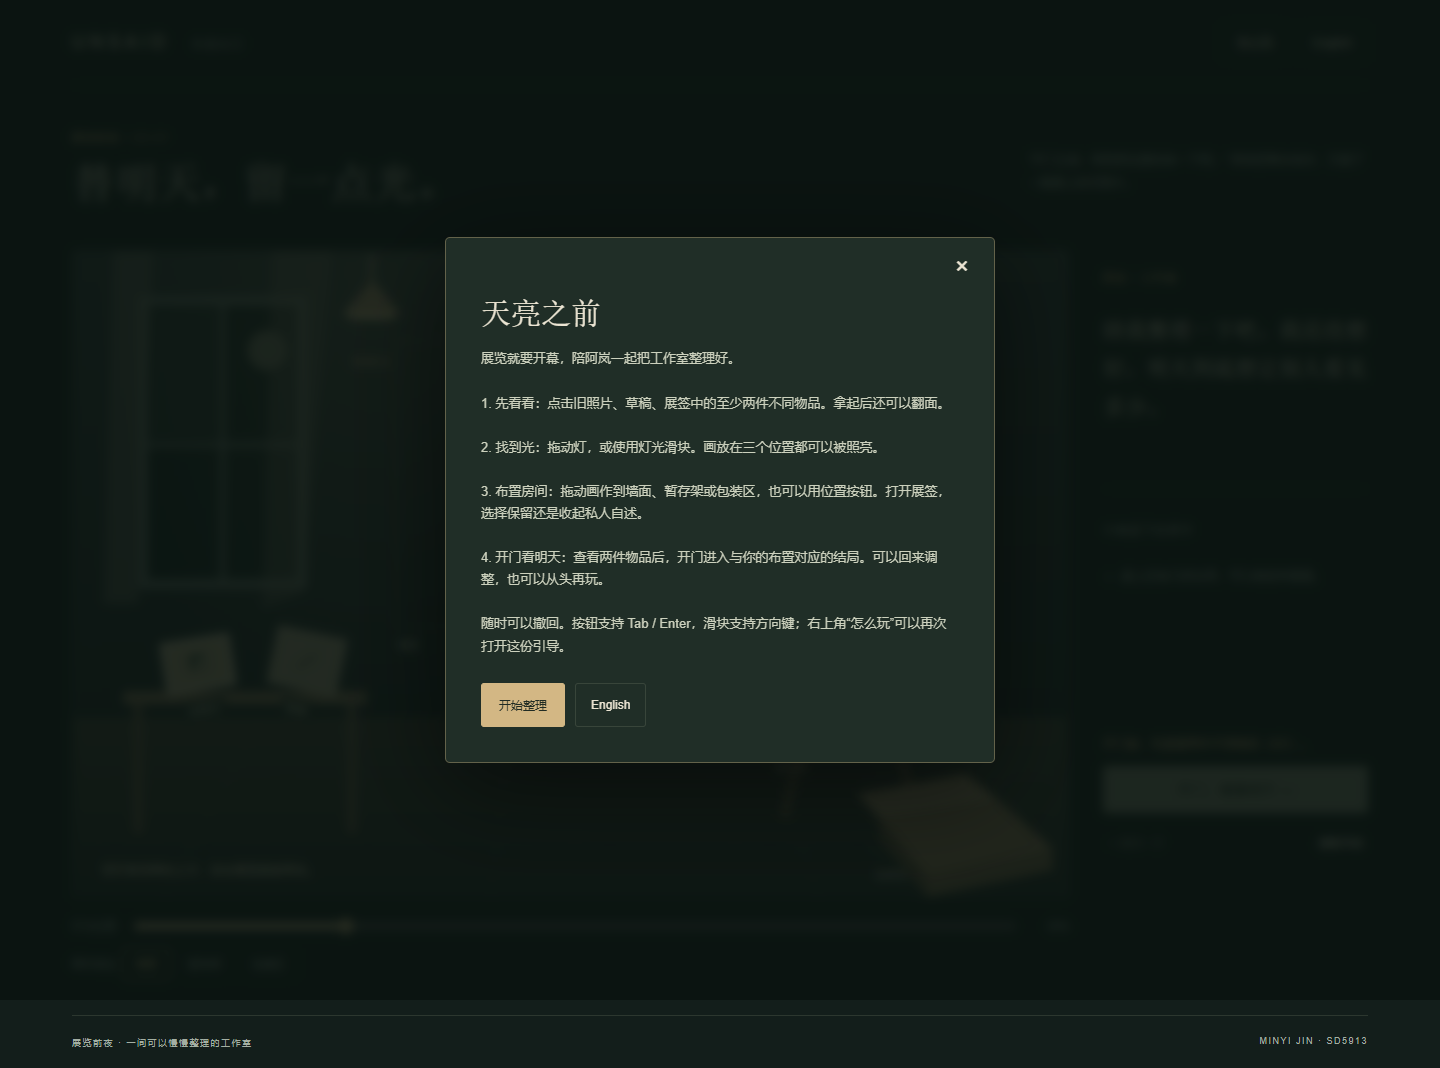
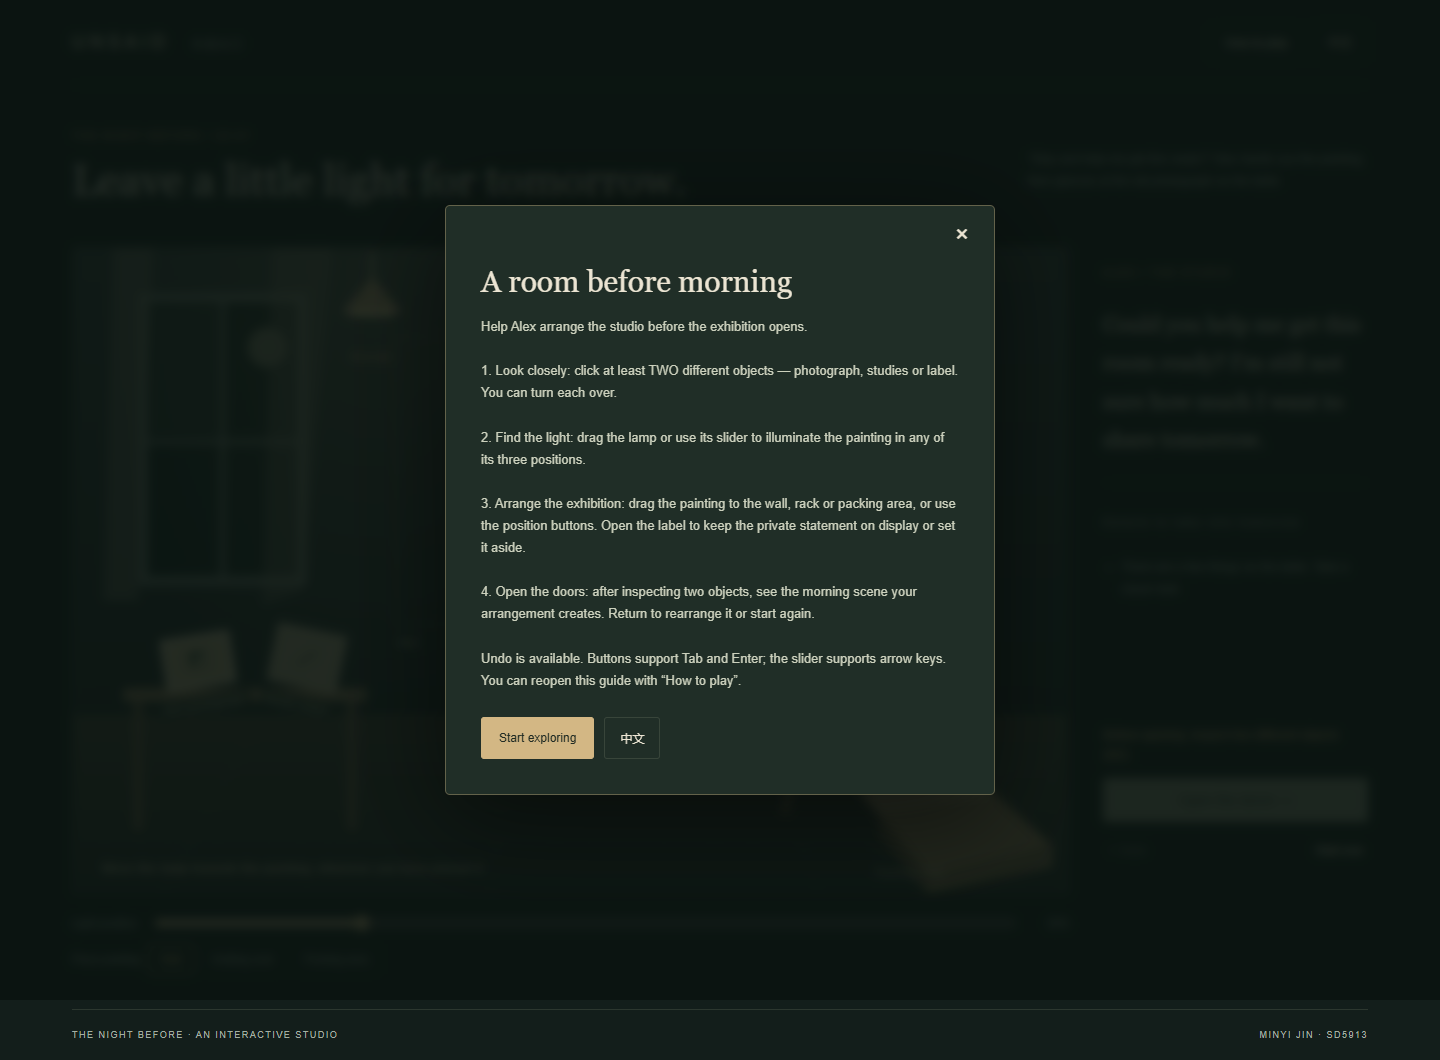
default to English and document the submission review

Changed region(s): [[0.3125, 0.1868, 0.6875, 0.7472], [0.0625, 0.9651, 0.2188, 0.9962], [0.875, 0.9651, 0.9375, 0.9962]]

diff --git a/index.html b/index.html
@@ -1,6 +1,6 @@
 <!doctype html>
-<html lang="zh-CN"><head><meta charset="utf-8"><meta name="viewport" content="width=device-width,initial-scale=1"><title>Unsaid · 未说出口</title><link rel="stylesheet" href="style.css?v=20261025c"></head><body>
-<header><a href="./">UNSAID <span>未说出口</span></a><div><button id="help">怎么玩</button><button id="language">English</button></div></header>
+<html lang="en"><head><meta charset="utf-8"><meta name="viewport" content="width=device-width,initial-scale=1"><title>Unsaid · 未说出口</title><link rel="stylesheet" href="style.css?v=20261026"></head><body>
+<header><a href="./">UNSAID <span>未说出口</span></a><div><button id="help">How to play</button><button id="language">中文</button></div></header>
 <main><div class="heading"><div><p class="eyebrow" id="chapter"></p><h1 id="title"></h1></div><p id="intro"></p></div>
 <div class="layout"><section class="stage-column"><div id="studio" aria-label="Interactive studio">
 <svg class="room" viewBox="0 0 1000 650" aria-hidden="true"><defs><linearGradient id="wall" x2="0" y2="1"><stop stop-color="#34413e"/><stop offset="1" stop-color="#1e2a28"/></linearGradient><linearGradient id="floor" x2="0" y2="1"><stop stop-color="#454738"/><stop offset="1" stop-color="#202a27"/></linearGradient><pattern id="grain" width="7" height="7" patternUnits="userSpaceOnUse"><path d="M0 0h1v1H0z" fill="#d9d1b4" opacity=".08"/></pattern></defs>
@@ -24,4 +24,4 @@
 <dialog id="ending"><p class="eyebrow" id="ending-eyebrow"></p><h2 id="ending-title"></h2><div id="final-scene" aria-label="Final exhibition"></div><p id="ending-copy"></p><p id="visitor-response"></p><div id="ending-summary"></div><div class="dialog-actions"><button id="continue"></button><button id="play-again" class="primary"></button></div></dialog>
 <dialog id="help-dialog" aria-labelledby="help-title"><button class="close" id="close-help" aria-label="Close">×</button><h2 id="help-title"></h2><p id="help-copy"></p><div class="dialog-actions"><button id="help-ok" class="primary" autofocus></button><button id="help-language"></button></div></dialog>
 <dialog id="reset-dialog"><h2 id="reset-title"></h2><p id="reset-copy"></p><div class="dialog-actions"><button id="cancel-reset"></button><button id="confirm-reset" class="primary"></button></div></dialog>
-<script src="app.js?v=20261025c"></script></body></html>
+<script src="app.js?v=20261026"></script></body></html>

diff --git a/app.js b/app.js
@@ -1,7 +1,7 @@
 // Deliberate action -> scene state -> visual change and character feedback.
 const $=id=>document.getElementById(id), T=(en,zh)=>lang?zh:en;
 const initial=()=>({light:30,place:'wall',label:true,seen:[],revealed:false});
-let lang=1,state=initial(),history=[],currentObject=null,flipped=false,drag=null,voice='welcome',status='';
+let lang=0,state=initial(),history=[],currentObject=null,flipped=false,drag=null,voice='welcome',status='';
 const names={wall:['Wall','墙面'],rack:['Holding rack','暂存架'],pack:['Packing area','包装区'],photo:['Old photograph','旧照片'],sketch:['Study sheet','草稿'],label:['Exhibition label','展签']};
 const text={welcome:["Could you help me get this room ready? I'm still not sure how much I want to share tomorrow.","陪我整理一下吧。我还没想好，明天到底想让别人看见多少。"],light:["There. That strip by the curtain. She always left it open a little. That's the part I kept repainting.","就是那里，窗帘旁边的那条光。她总会留一道缝。那是我一直重画的部分。"],wall:["From here you can see the whole room. Could we leave a little space around it?","放在这里，能看见整个房间。周围留一点空白吧。"],rack:["Let's leave it here while I think. It feels easier when it doesn't have to be a final decision.","先放在这里，让我想想。不用马上决定的话，好像就没那么难了。"],pack:["Maybe I'll take it home tonight. Could you leave the wrapping open until we're done?","也许今晚我想把它带回家。先别封好包装，等我们整理完。"],labelOff:["Thank you. I can show the painting without giving everyone the whole story.","谢谢。把画留下，也不一定要把所有事情都讲出来。"],labelOn:["That is a lot to put beside a painting. Let me look at it once more before morning.","放在一幅画旁边，这些话好像有点多。天亮前，再让我看一次吧。"]};
 function snapshot(){return {state:structuredClone(state),voice};}

diff --git a/PROCESS.md b/PROCESS.md
@@ -97,3 +97,11 @@ The bilingual guide now opens on page load, includes the four-step flow and the 
 作者重新确认保留查看两件物品的流程，指出主要问题是不会主动打开“怎么玩”。因此恢复条件，并显示 0/2、1/2 与可开门状态。重复查看同一物品不累计。首次进入主动弹出双语引导，明确流程和开门条件，关闭后仍可从右上角再次打开；重启布置不重复强制弹出。
 
 Browser verification covered automatic guide display, language switching inside it, dismissal, blocked opening at zero/one distinct object, repeated inspection not increasing the count, and successful endings after two. Existing drag, packing, lighting, undo, keyboard and mobile touch checks also passed. These changes follow author feedback, not a newly claimed classmate session.
+
+## 26 October 2026 — English entry and submission review / 英文入口与提交复核
+
+At the author's request, English is now the default for the page and introductory guide. Chinese remains selectable in both the guide and header, with arrangement state preserved. No new gameplay was added. Browser checks verified the English initial document, English guide, Chinese option, language switching, exploration condition, core interactions and four endings. The English guide and desktop screenshots were refreshed.
+
+A fresh public clone was served using the README commands on 25 October, and its interaction passed the browser checks. The public repository and live page both returned HTTP 200 without a signed-in browser session. The repository includes source, inline visual assets, screenshots, README, PROCESS, credits and development history. Two classmates' feedback and subsequent decisions are recorded as relayed by the author, with supplied dates. The only unconfirmed trial detail is whether use began before the author explained controls. Final Canvas URL submission is also outside the developer's verified evidence. Neither signatures nor a second round of participant testing is required by the supplied brief; a short recording and a live link are supplementary, and a live link is already provided.
+
+按作者要求，页面和首次引导默认英文，中文作为引导及页头中的可选项，切换保留布置。不增加玩法。英文入口、语言切换、查看条件、核心操作和四种结局均通过验证。源码、素材、截图、说明、过程、署名和开发历史齐全。尚待确认的试用事实是同学是否先自行尝试再听讲解；Canvas 最终提交网址也尚未由开发助手核实。不要求签名，也不强制修改后再试一次。

diff --git a/README.md b/README.md
@@ -4,6 +4,8 @@ SD5913 Assignment 3 · Individual interactive experience · Minyi Jin
 
 [Play in your browser / 在线试玩](https://iceyhikari.github.io/unsaid/)
 
+English opens by default, including the introductory guide. Select **中文** in the guide or header for Chinese; switching language preserves the current arrangement. / 默认以英文打开，包含首次引导；可在引导或页头选择中文，切换保留当前布置。
+
 ![Interactive studio with a movable painting and lamp](screenshot.png)
 
 ## The idea / 作品构想
@@ -77,7 +79,7 @@ Due **1 November 2026, 23:59 Hong Kong time**, according to the supplied Canvas 
 - [ ] Author review of the revised scene and interaction.
 - [x] Two classmates' feedback recorded as reported by the author, with resulting design decisions.
 - [ ] Confirm whether the trial started before explaining controls; report any final participant retest.
-- [ ] Final fresh-terminal run and signed-out repository check.
+- [x] Fresh-download run and anonymous repository check verified on 25 October; final language revision checked on 26 October.
 - [ ] Final repository URL submitted on Canvas by the author.
 
 See [PROCESS.md](PROCESS.md), [USER-TRIAL.md](USER-TRIAL.md) and [CREDITS.md](CREDITS.md).
